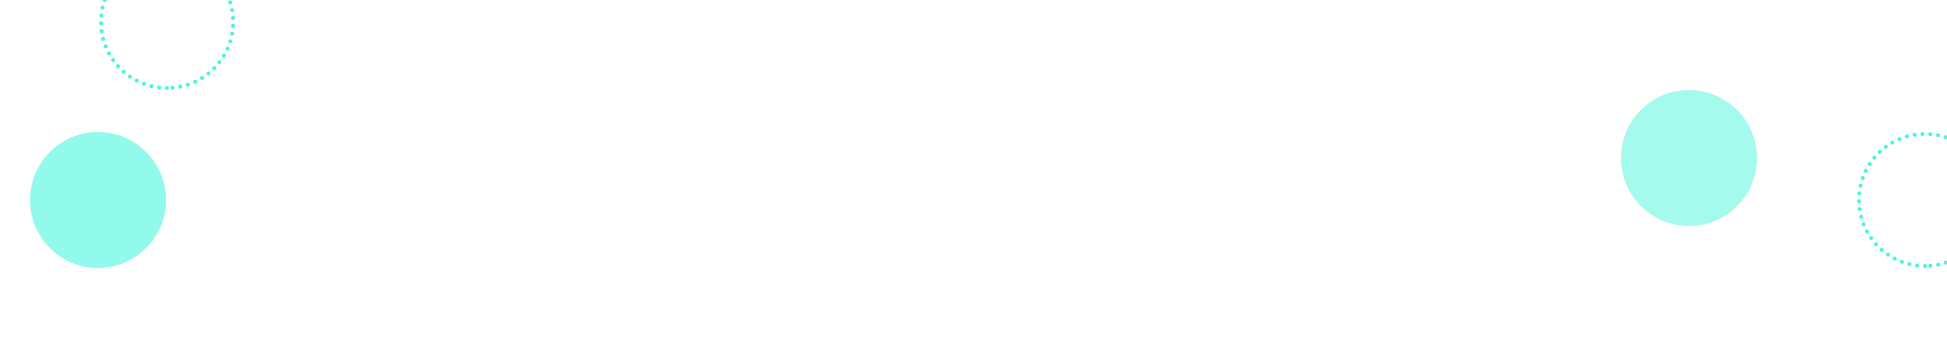
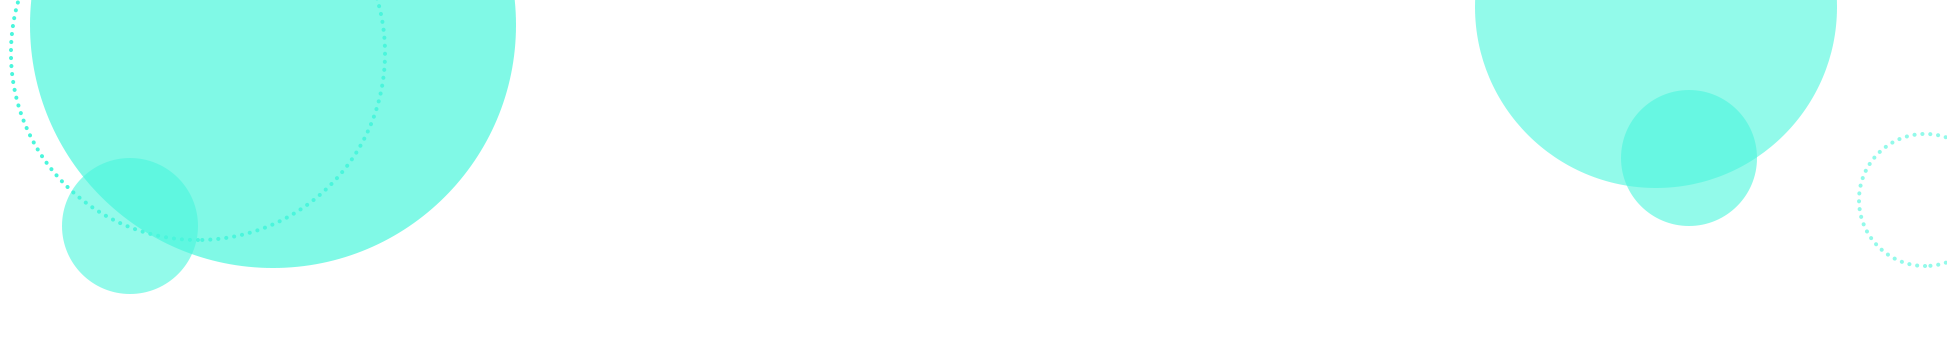
changing bubbles

diff --git a/index.html b/index.html
@@ -343,7 +343,7 @@ background-image: url(/img/bubbles.png);
 
 .bubbles-2{
 background-image: url(/img/bubbles-2.png);
-    position: fixed;
+    position: absolute;
     top: 0px;
     background-size: cover;
     display: inline-block;
@@ -351,7 +351,6 @@ background-image: url(/img/bubbles-2.png);
     height: 240px;
     z-index: 9999;
     background-repeat: no-repeat;
-    display: none;
 }
 
 </style>
